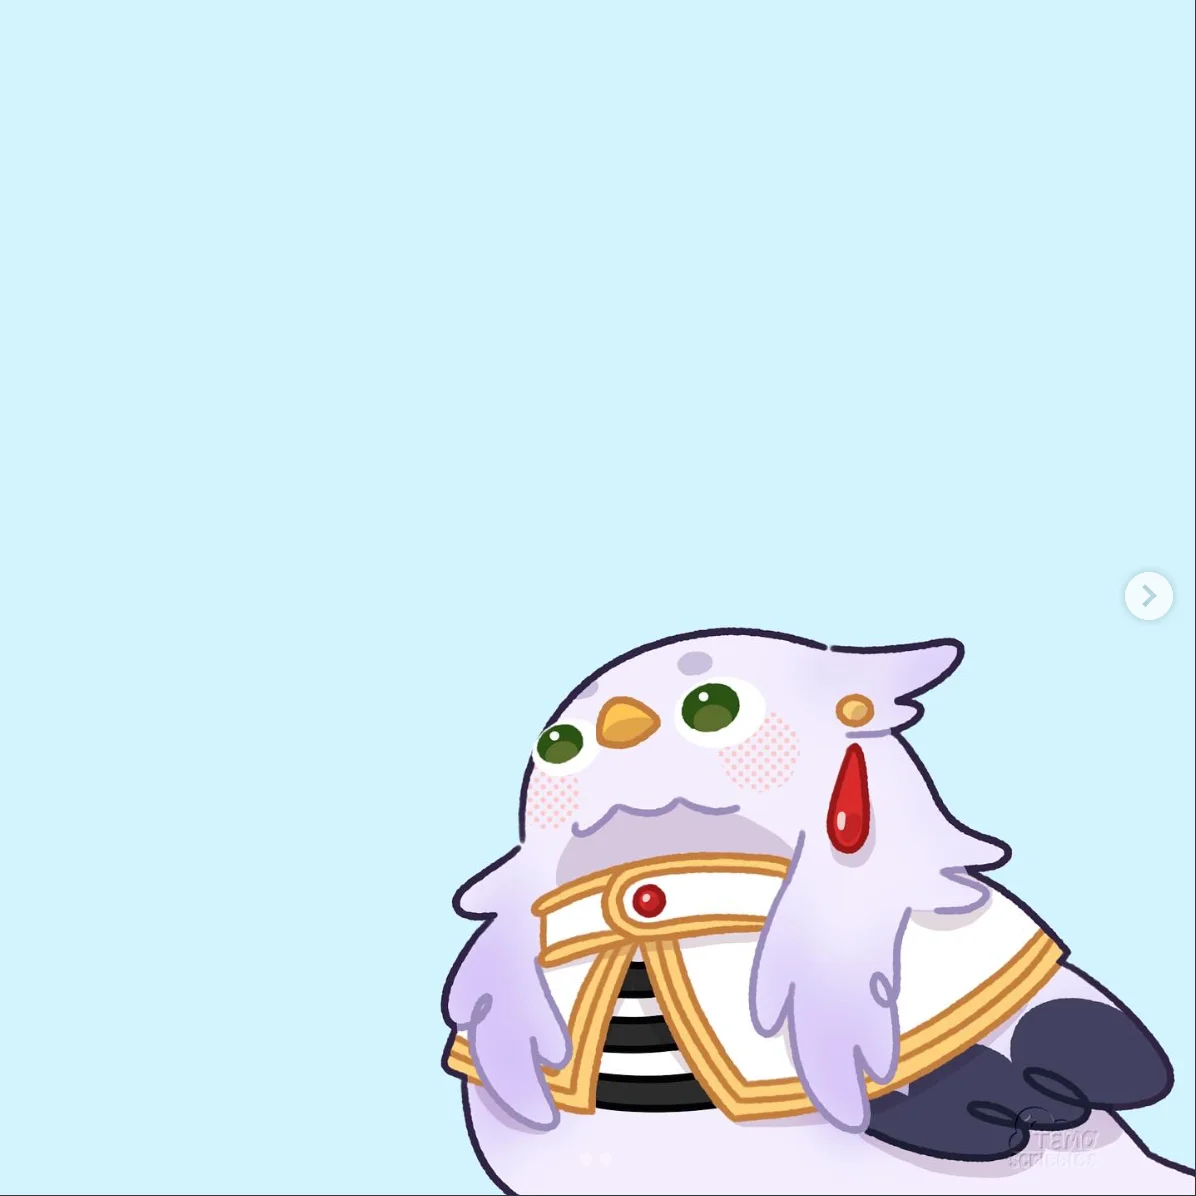
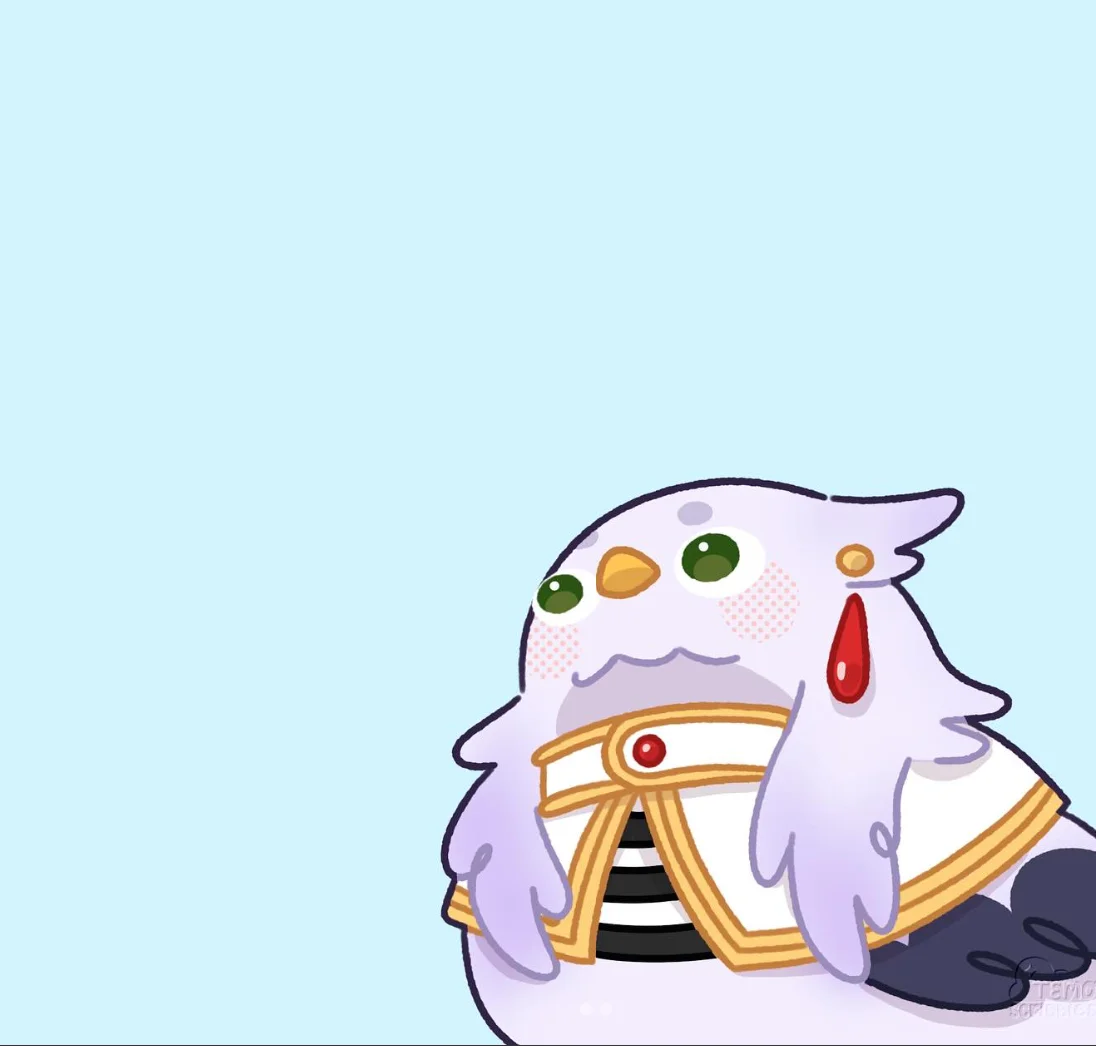
feat: cleanup entries

Changed region(s): [[0.3412, 0.0, 1.0, 1.0]]

diff --git a/src/screens/Constructs/index.tsx b/src/screens/Constructs/index.tsx
@@ -34,8 +34,8 @@ const ConstructsScreen = () => (
             <ProgressiveImage
               placeholderSrc={constructImageUrl(c.id, c.cover, 'placeholder')}
               src={constructImageUrl(c.id, c.cover, 'thumb')}
-              width={c.coverWidth}
-              height={c.coverHeight}
+              width={3}
+              height={2}
               loading={i < 4 ? 'eager' : 'lazy'}
               className='rounded-sm'
             />

diff --git a/src/screens/Constructs/entries/dovetail.md b/src/screens/Constructs/entries/dovetail.md
@@ -4,10 +4,12 @@ title: Dovetail
 subtitle: Docker-to-Tailscale reverse proxy
 date: '2025.12'
 cover: cover
-coverWidth: 1196
-coverHeight: 1196
+coverWidth: 1096
+coverHeight: 1046
 repo: https://github.com/wu-json/dovetail
 ---
+
+![Dovetail architecture](/images/constructs/dovetail/cover-full.webp)
 
 A reverse proxy that automatically connects Docker containers to your Tailscale network. Run a container with a label, and Dovetail handles the rest — provisioning a Tailscale node and proxying traffic to the right port.
 

diff --git a/src/screens/Constructs/entries/curse.md b/src/screens/Constructs/entries/curse.md
@@ -9,6 +9,8 @@ coverHeight: 1770
 repo: https://github.com/wu-json/curse
 ---
 
+![Curse terminal UI](/images/constructs/curse/cover-full.webp)
+
 A terminal UI for running and managing multiple processes in parallel. Built with Go and BubbleTea.
 
 Curse reads a simple YAML config and spins up each process in its own pane — scrollable, color-coded, and easy to monitor. When one crashes, you see it immediately. When you're done, `Ctrl+C` tears everything down cleanly.
